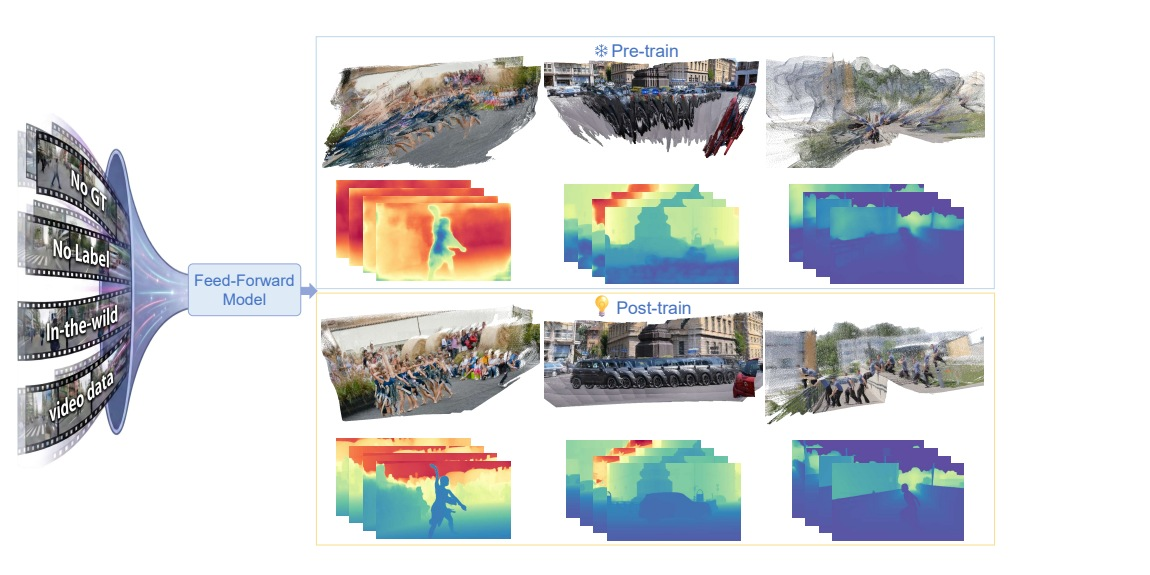
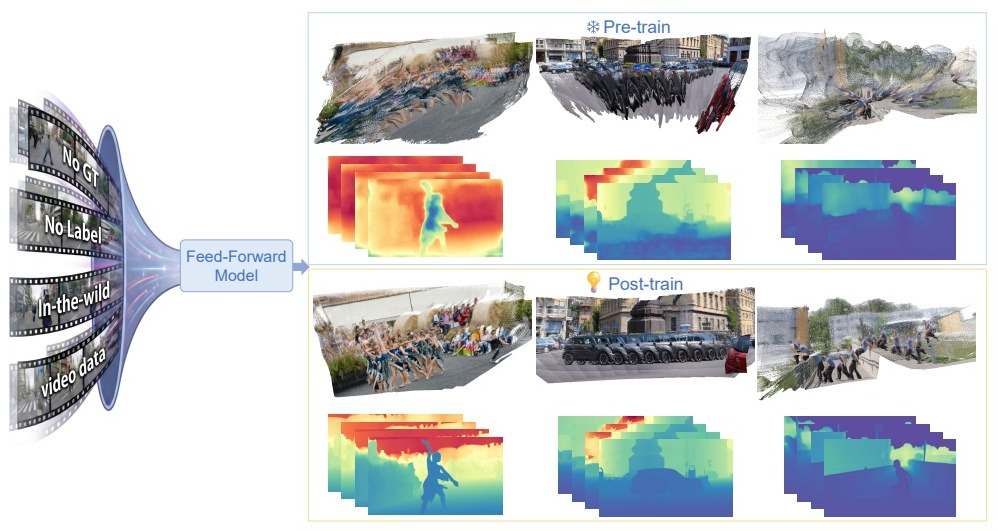
Make the teaser fill the figure width.

diff --git a/static/css/style.css b/static/css/style.css
@@ -91,7 +91,7 @@ sup{font-size:.65em;font-weight:600;color:var(--accent)}
 
 /* ---------- FIGURES ---------- */
 .figure{margin:0 0 8px;background:#fff;border:1px solid var(--line);border-radius:var(--radius);padding:14px;box-shadow:var(--shadow)}
-.figure img{border-radius:8px;margin:0 auto;cursor:zoom-in}
+.figure img{width:100%;height:auto;border-radius:8px;margin:0 auto;cursor:zoom-in}
 .figure figcaption{margin-top:14px;color:var(--muted);font-size:14.5px;line-height:1.6;text-align:left;padding:0 6px}
 .figure-plain{box-shadow:none}
 
